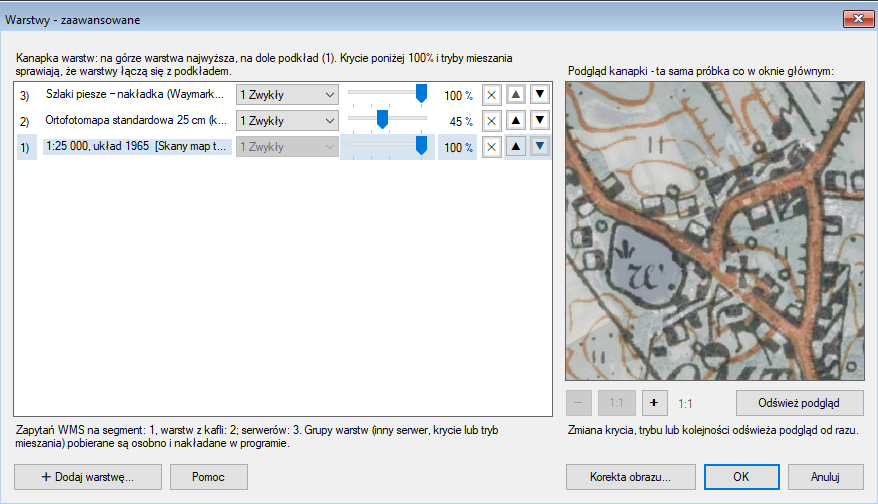
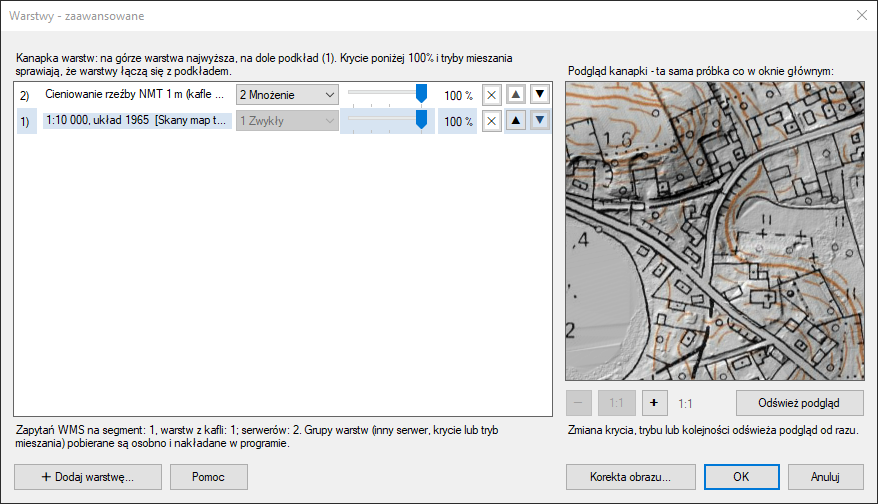
Aktualizacja zrzutu okna Warstwy - zaawansowane (topo 10k + cieniowanie LiDAR)
- Zastapiono stary zrzut kompozycja mapy topograficznej 1:10 000 (uklad 1965) z nalozonym cieniowaniem NMT LiDAR w trybie mnozenia (krycie 100%).
- Podglad w mikserze wyraziscie prezentuje plastyczna rzezbe terenu przy zachowaniu pelnej ostrosci warstwic i szczegolow mapy topograficznej.
- Zaktualizowano opisy i podpisy pod rysunkiem w README.md oraz pomoc/okno-glowne.md.

diff --git a/pomoc/okno-glowne.md b/pomoc/okno-glowne.md
@@ -165,9 +165,9 @@ Prawy panel programu organizuje źródła danych i kompozycję wielowarstwową:
 
 ### Okno *Warstwy - zaawansowane* (Mikser)
 
-![Okno Warstwy - zaawansowane z suwakami krycia i podglądem kanapki]({{ '/pomoc/obrazy/03-warstwy-zaawansowane.png' | relative_url }})
+![Okno Warstwy - zaawansowane: mapa topograficzna 1:10 000 z cieniowaniem LiDAR w trybie mnożenia]({{ '/pomoc/obrazy/03-warstwy-zaawansowane.png' | relative_url }})
 
-*Rysunek 2. Okno zaawansowanego miksera warstw z suwakami krycia, trybami mieszania i podglądem na żywo.*
+*Rysunek 2. Okno zaawansowanego miksera warstw: mapa topograficzna 1:10 000 połączona z cieniowaniem NMT LiDAR w trybie mnożenia (pełne krycie 100%).*
 
 * Pozwala przypisać każdej warstwie niezależny tryb mieszania: *Zwykły*, *Nakładka*, *Mnożenie*, *Ekran*, *Ciemniej*, *Jaśniej*, *Różnica* oraz **Rzeźba terenu**.
 * **Tryb „Rzeźba terenu”:** eliminuje problem szarej zasłony przy nakładaniu cieniowania NMT LiDAR. Płaski teren pozostaje neutralny, stoki w cieniu ciemnieją, a zbocza oświetlone delikatnie jaśnieją.

diff --git a/README.md b/README.md
@@ -86,7 +86,7 @@ Program działa w trybie **portable (bez instalacji)** jako pojedynczy plik `Map
 ![Okno eksportu mapy](pomoc/obrazy/10-eksport-mapy.png)
 
 ### Kompozycje warstw, krycie i rzeźba terenu (LiDAR)
-![Okno Warstwy - zaawansowane z suwakami krycia i podglądem](pomoc/obrazy/03-warstwy-zaawansowane.png)
+![Okno Warstwy - zaawansowane: mapa topograficzna 1:10 000 z cieniowaniem LiDAR w trybie mnożenia](pomoc/obrazy/03-warstwy-zaawansowane.png)
 
 </details>
 
